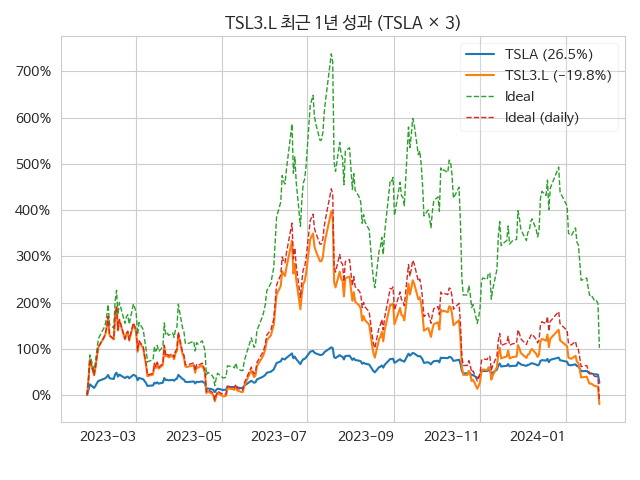
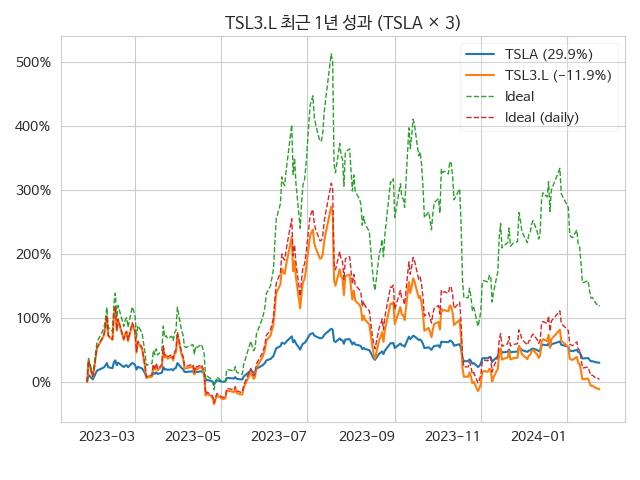
레버리지 비용 페이지 업데이터

diff --git a/_posts/lev/2024-01-26-tsl3.md b/_posts/lev/2024-01-26-tsl3.md
@@ -1,0 +1,38 @@
+---
+title: TSL3.L 레버리지 수익률과 비용 (TSLA×3)
+categories:
+- 레버리지
+---
+
+| **종목** | **1년** | **표준편차** | **샤프** | **MDD** | **AvDD** |
+| :------------ | ------: | -----------: | -------: | ------: | -------: |
+| TSL3.L | <span style="color: blue">-11.9<small>%</small></span> | 182.8<small>%</small> | -0.07 | -77.1<small>%</small> | -42.5<small>%</small> |
+
+<!-- more -->
+
+<br>
+
+![TSL3.L](/lev/images/tsl3.png)
+
+> **주요 가격 변동 지표**<small>[^fn_price_metric]</small>
+
+
+| **종목** | **1년** | **표준편차** | **샤프** | **MDD** | **AvDD** |
+| :------------ | ------: | -----------: | -------: | ------: | -------: |
+| TSL3.L | <span style="color: blue">-11.9<small>%</small></span> | 182.8% | -0.07 | -77.1<small>%</small> | -42.5<small>%</small> |
+| Ideal<small>[^fn_lev_ideal]</small> | <span style="color: red">119.1<small>%</small></span> | 184.8% | 0.64 | -69.5<small>%</small> | -33.9<small>%</small> |
+| Ideal <small>(daily)</small><small>[^fn_lev_ideal_daily]</small> | <span style="color: red">3.7<small>%</small></span> | 183.2% | 0.02 | -76.1<small>%</small> | -41.4<small>%</small> |
+| TSLA | <span style="color: red">29.9<small>%</small></span> | 61.0% | 0.49 | -32.7<small>%</small> | -13.7<small>%</small> |
+
+<br>
+
+> **추정 비용**<small>[^fn_lev_expense]</small><a id="expense"></a>
+
+TSL3.L가 TSLA의 3배 레버리지 상품이라 가정하고 분석한 결과입니다.
+
+| **종목** | **변동성 비용**<small>[^fn_lev_vd_expense]</small> | **금융 비용**<small>[^fn_lev_fn_expense]</small> | **전체 비용**</small>[^fn_lev_tt_expense]</small> |
+| :------------ | ------: | -----------: | -------: |
+| TSL3.L | 52.4<small>%</small> | 15.0<small>%</small> | 59.6<small>%</small> |
+
+---
+{% include commons/footnotes.md %}

diff --git a/_posts/lev/2024-01-25-labu.md b/_posts/lev/2024-01-25-labu.md
@@ -1,0 +1,38 @@
+---
+title: LABU 레버리지 수익률과 비용 (XBI×3)
+categories:
+- 레버리지
+---
+
+| **종목** | **1년** | **표준편차** | **샤프** | **MDD** | **AvDD** |
+| :------------ | ------: | -----------: | -------: | ------: | -------: |
+| LABU | <span style="color: blue">-30.5<small>%</small></span> | 99.9<small>%</small> | -0.31 | -73.0<small>%</small> | -41.1<small>%</small> |
+
+<!-- more -->
+
+<br>
+
+![LABU](/lev/images/labu.png)
+
+> **주요 가격 변동 지표**<small>[^fn_price_metric]</small>
+
+
+| **종목** | **1년** | **표준편차** | **샤프** | **MDD** | **AvDD** |
+| :------------ | ------: | -----------: | -------: | ------: | -------: |
+| LABU | <span style="color: blue">-30.5<small>%</small></span> | 99.9% | -0.31 | -73.0<small>%</small> | -41.1<small>%</small> |
+| Ideal<small>[^fn_lev_ideal]</small> | <span style="color: blue">-1.3<small>%</small></span> | 102.5% | -0.01 | -66.1<small>%</small> | -31.6<small>%</small> |
+| Ideal <small>(daily)</small><small>[^fn_lev_ideal_daily]</small> | <span style="color: blue">-22.1<small>%</small></span> | 102.1% | -0.22 | -70.8<small>%</small> | -38.2<small>%</small> |
+| XBI | <span style="color: blue">-0.4<small>%</small></span> | 34.0% | -0.01 | -30.3<small>%</small> | -12.5<small>%</small> |
+
+<br>
+
+> **추정 비용**<small>[^fn_lev_expense]</small><a id="expense"></a>
+
+LABU가 XBI의 3배 레버리지 상품이라 가정하고 분석한 결과입니다.
+
+| **종목** | **변동성 비용**<small>[^fn_lev_vd_expense]</small> | **금융 비용**<small>[^fn_lev_fn_expense]</small> | **전체 비용**</small>[^fn_lev_tt_expense]</small> |
+| :------------ | ------: | -----------: | -------: |
+| LABU | 21.1<small>%</small> | 10.8<small>%</small> | 29.6<small>%</small> |
+
+---
+{% include commons/footnotes.md %}

diff --git a/_posts/lev/2024-01-25-sdow.md b/_posts/lev/2024-01-25-sdow.md
@@ -1,0 +1,38 @@
+---
+title: SDOW 레버리지 수익률과 비용 (DOG×3)
+categories:
+- 레버리지
+---
+
+| **종목** | **1년** | **표준편차** | **샤프** | **MDD** | **AvDD** |
+| :------------ | ------: | -----------: | -------: | ------: | -------: |
+| SDOW | <span style="color: blue">-26.3<small>%</small></span> | 39.4<small>%</small> | -0.67 | -37.9<small>%</small> | -16.8<small>%</small> |
+
+<!-- more -->
+
+<br>
+
+![SDOW](/lev/images/sdow.png)
+
+> **주요 가격 변동 지표**<small>[^fn_price_metric]</small>
+
+
+| **종목** | **1년** | **표준편차** | **샤프** | **MDD** | **AvDD** |
+| :------------ | ------: | -----------: | -------: | ------: | -------: |
+| SDOW | <span style="color: blue">-26.3<small>%</small></span> | 39.4% | -0.67 | -37.9<small>%</small> | -16.8<small>%</small> |
+| Ideal<small>[^fn_lev_ideal]</small> | <span style="color: blue">-16.9<small>%</small></span> | 39.4% | -0.43 | -35.1<small>%</small> | -14.3<small>%</small> |
+| Ideal <small>(daily)</small><small>[^fn_lev_ideal_daily]</small> | <span style="color: blue">-19.8<small>%</small></span> | 39.5% | -0.50 | -35.6<small>%</small> | -15.0<small>%</small> |
+| DOG | <span style="color: blue">-6.0<small>%</small></span> | 13.2% | -0.46 | -13.4<small>%</small> | -5.1<small>%</small> |
+
+<br>
+
+> **추정 비용**<small>[^fn_lev_expense]</small><a id="expense"></a>
+
+SDOW가 DOG의 3배 레버리지 상품이라 가정하고 분석한 결과입니다.
+
+| **종목** | **변동성 비용**<small>[^fn_lev_vd_expense]</small> | **금융 비용**<small>[^fn_lev_fn_expense]</small> | **전체 비용**</small>[^fn_lev_tt_expense]</small> |
+| :------------ | ------: | -----------: | -------: |
+| SDOW | 3.5<small>%</small> | 8.1<small>%</small> | 11.3<small>%</small> |
+
+---
+{% include commons/footnotes.md %}

diff --git a/_posts/lev/2024-01-25-dxd.md b/_posts/lev/2024-01-25-dxd.md
@@ -1,0 +1,38 @@
+---
+title: DXD 레버리지 수익률과 비용 (DOG×2)
+categories:
+- 레버리지
+---
+
+| **종목** | **1년** | **표준편차** | **샤프** | **MDD** | **AvDD** |
+| :------------ | ------: | -----------: | -------: | ------: | -------: |
+| DXD | <span style="color: blue">-16.9<small>%</small></span> | 26.3<small>%</small> | -0.64 | -26.2<small>%</small> | -11.1<small>%</small> |
+
+<!-- more -->
+
+<br>
+
+![DXD](/lev/images/dxd.png)
+
+> **주요 가격 변동 지표**<small>[^fn_price_metric]</small>
+
+
+| **종목** | **1년** | **표준편차** | **샤프** | **MDD** | **AvDD** |
+| :------------ | ------: | -----------: | -------: | ------: | -------: |
+| DXD | <span style="color: blue">-16.9<small>%</small></span> | 26.3% | -0.64 | -26.2<small>%</small> | -11.1<small>%</small> |
+| Ideal<small>[^fn_lev_ideal]</small> | <span style="color: blue">-11.6<small>%</small></span> | 26.3% | -0.44 | -25.1<small>%</small> | -9.9<small>%</small> |
+| Ideal <small>(daily)</small><small>[^fn_lev_ideal_daily]</small> | <span style="color: blue">-12.7<small>%</small></span> | 26.3% | -0.48 | -25.2<small>%</small> | -10.1<small>%</small> |
+| DOG | <span style="color: blue">-6.0<small>%</small></span> | 13.2% | -0.46 | -13.4<small>%</small> | -5.1<small>%</small> |
+
+<br>
+
+> **추정 비용**<small>[^fn_lev_expense]</small><a id="expense"></a>
+
+DXD가 DOG의 2배 레버리지 상품이라 가정하고 분석한 결과입니다.
+
+| **종목** | **변동성 비용**<small>[^fn_lev_vd_expense]</small> | **금융 비용**<small>[^fn_lev_fn_expense]</small> | **전체 비용**</small>[^fn_lev_tt_expense]</small> |
+| :------------ | ------: | -----------: | -------: |
+| DXD | 1.2<small>%</small> | 4.9<small>%</small> | 6.0<small>%</small> |
+
+---
+{% include commons/footnotes.md %}

diff --git a/_posts/lev/2024-01-25-udow.md b/_posts/lev/2024-01-25-udow.md
@@ -1,0 +1,38 @@
+---
+title: UDOW 레버리지 수익률과 비용 (DIA×3)
+categories:
+- 레버리지
+---
+
+| **종목** | **1년** | **표준편차** | **샤프** | **MDD** | **AvDD** |
+| :------------ | ------: | -----------: | -------: | ------: | -------: |
+| UDOW | <span style="color: red">29.4<small>%</small></span> | 39.3<small>%</small> | 0.75 | -26.5<small>%</small> | -8.0<small>%</small> |
+
+<!-- more -->
+
+<br>
+
+![UDOW](/lev/images/udow.png)
+
+> **주요 가격 변동 지표**<small>[^fn_price_metric]</small>
+
+
+| **종목** | **1년** | **표준편차** | **샤프** | **MDD** | **AvDD** |
+| :------------ | ------: | -----------: | -------: | ------: | -------: |
+| UDOW | <span style="color: red">29.4<small>%</small></span> | 39.3% | 0.75 | -26.5<small>%</small> | -8.0<small>%</small> |
+| Ideal<small>[^fn_lev_ideal]</small> | <span style="color: red">52.2<small>%</small></span> | 39.6% | 1.32 | -23.5<small>%</small> | -6.1<small>%</small> |
+| Ideal <small>(daily)</small><small>[^fn_lev_ideal_daily]</small> | <span style="color: red">46.9<small>%</small></span> | 39.5% | 1.19 | -24.1<small>%</small> | -6.5<small>%</small> |
+| DIA | <span style="color: red">15.0<small>%</small></span> | 13.2% | 1.14 | -8.6<small>%</small> | -2.1<small>%</small> |
+
+<br>
+
+> **추정 비용**<small>[^fn_lev_expense]</small><a id="expense"></a>
+
+UDOW가 DIA의 3배 레버리지 상품이라 가정하고 분석한 결과입니다.
+
+| **종목** | **변동성 비용**<small>[^fn_lev_vd_expense]</small> | **금융 비용**<small>[^fn_lev_fn_expense]</small> | **전체 비용**</small>[^fn_lev_tt_expense]</small> |
+| :------------ | ------: | -----------: | -------: |
+| UDOW | 3.5<small>%</small> | 11.9<small>%</small> | 15.0<small>%</small> |
+
+---
+{% include commons/footnotes.md %}

diff --git a/_posts/lev/2024-01-25-ddm.md b/_posts/lev/2024-01-25-ddm.md
@@ -1,0 +1,38 @@
+---
+title: DDM 레버리지 수익률과 비용 (DIA×2)
+categories:
+- 레버리지
+---
+
+| **종목** | **1년** | **표준편차** | **샤프** | **MDD** | **AvDD** |
+| :------------ | ------: | -----------: | -------: | ------: | -------: |
+| DDM | <span style="color: red">22.2<small>%</small></span> | 26.3<small>%</small> | 0.84 | -18.0<small>%</small> | -5.0<small>%</small> |
+
+<!-- more -->
+
+<br>
+
+![DDM](/lev/images/ddm.png)
+
+> **주요 가격 변동 지표**<small>[^fn_price_metric]</small>
+
+
+| **종목** | **1년** | **표준편차** | **샤프** | **MDD** | **AvDD** |
+| :------------ | ------: | -----------: | -------: | ------: | -------: |
+| DDM | <span style="color: red">22.2<small>%</small></span> | 26.3% | 0.84 | -18.0<small>%</small> | -5.0<small>%</small> |
+| Ideal<small>[^fn_lev_ideal]</small> | <span style="color: red">32.3<small>%</small></span> | 26.4% | 1.23 | -16.4<small>%</small> | -4.2<small>%</small> |
+| Ideal <small>(daily)</small><small>[^fn_lev_ideal_daily]</small> | <span style="color: red">30.7<small>%</small></span> | 26.3% | 1.17 | -16.6<small>%</small> | -4.3<small>%</small> |
+| DIA | <span style="color: red">15.0<small>%</small></span> | 13.2% | 1.14 | -8.6<small>%</small> | -2.1<small>%</small> |
+
+<br>
+
+> **추정 비용**<small>[^fn_lev_expense]</small><a id="expense"></a>
+
+DDM가 DIA의 2배 레버리지 상품이라 가정하고 분석한 결과입니다.
+
+| **종목** | **변동성 비용**<small>[^fn_lev_vd_expense]</small> | **금융 비용**<small>[^fn_lev_fn_expense]</small> | **전체 비용**</small>[^fn_lev_tt_expense]</small> |
+| :------------ | ------: | -----------: | -------: |
+| DDM | 1.2<small>%</small> | 6.5<small>%</small> | 7.6<small>%</small> |
+
+---
+{% include commons/footnotes.md %}

diff --git a/_posts/lev/2024-01-25-sqqq.md b/_posts/lev/2024-01-25-sqqq.md
@@ -20,15 +20,17 @@ categories:
 | **종목** | **1년** | **표준편차** | **샤프** | **MDD** | **AvDD** |
 | :------------ | ------: | -----------: | -------: | ------: | -------: |
 | SQQQ | <span style="color: blue">-70.1<small>%</small></span> | 62.8% | -1.12 | -70.1<small>%</small> | -44.6<small>%</small> |
-| Ideal | <span style="color: blue">-64.7<small>%</small></span> | 63.4% | -1.02 | -64.7<small>%</small> | -40.1<small>%</small> |
-| Ideal (daily) | <span style="color: blue">-67.9<small>%</small></span> | 63.6% | -1.07 | -67.9<small>%</small> | -43.0<small>%</small> |
+| Ideal<small>[^fn_lev_ideal]</small> | <span style="color: blue">-64.7<small>%</small></span> | 63.4% | -1.02 | -64.7<small>%</small> | -40.1<small>%</small> |
+| Ideal <small>(daily)</small><small>[^fn_lev_ideal_daily]</small> | <span style="color: blue">-67.9<small>%</small></span> | 63.6% | -1.07 | -67.9<small>%</small> | -43.0<small>%</small> |
 | PSQ | <span style="color: blue">-29.3<small>%</small></span> | 21.2% | -1.38 | -29.3<small>%</small> | -16.4<small>%</small> |
 
 <br>
 
-> **추정 비용**[^fn_lev_expense]<a id="expense"></a>
+> **추정 비용**<small>[^fn_lev_expense]</small><a id="expense"></a>
 
-| **종목** | **변동성 비용**[^fn_lev_vd_expense] | **금융 비용**[^fn_lev_fn_expense] | **전체 비용**[^fn_lev_tt_expense] |
+SQQQ가 PSQ의 3배 레버리지 상품이라 가정하고 분석한 결과입니다.
+
+| **종목** | **변동성 비용**<small>[^fn_lev_vd_expense]</small> | **금융 비용**<small>[^fn_lev_fn_expense]</small> | **전체 비용**</small>[^fn_lev_tt_expense]</small> |
 | :------------ | ------: | -----------: | -------: |
 | SQQQ | 9.1<small>%</small> | 6.9<small>%</small> | 15.3<small>%</small> |
 

diff --git a/_posts/lev/2024-01-25-spxu.md b/_posts/lev/2024-01-25-spxu.md
@@ -20,15 +20,17 @@ categories:
 | **종목** | **1년** | **표준편차** | **샤프** | **MDD** | **AvDD** |
 | :------------ | ------: | -----------: | -------: | ------: | -------: |
 | SPXU | <span style="color: blue">-42.1<small>%</small></span> | 45.1% | -0.93 | -48.5<small>%</small> | -26.2<small>%</small> |
-| Ideal | <span style="color: blue">-33.9<small>%</small></span> | 45.4% | -0.75 | -42.5<small>%</small> | -22.9<small>%</small> |
-| Ideal (daily) | <span style="color: blue">-37.0<small>%</small></span> | 45.4% | -0.81 | -44.6<small>%</small> | -24.2<small>%</small> |
+| Ideal<small>[^fn_lev_ideal]</small> | <span style="color: blue">-33.9<small>%</small></span> | 45.4% | -0.75 | -42.5<small>%</small> | -22.9<small>%</small> |
+| Ideal <small>(daily)</small><small>[^fn_lev_ideal_daily]</small> | <span style="color: blue">-37.0<small>%</small></span> | 45.4% | -0.81 | -44.6<small>%</small> | -24.2<small>%</small> |
 | SH | <span style="color: blue">-12.9<small>%</small></span> | 15.1% | -0.85 | -16.8<small>%</small> | -8.5<small>%</small> |
 
 <br>
 
-> **추정 비용**[^fn_lev_expense]<a id="expense"></a>
+> **추정 비용**<small>[^fn_lev_expense]</small><a id="expense"></a>
 
-| **종목** | **변동성 비용**[^fn_lev_vd_expense] | **금융 비용**[^fn_lev_fn_expense] | **전체 비용**[^fn_lev_tt_expense] |
+SPXU가 SH의 3배 레버리지 상품이라 가정하고 분석한 결과입니다.
+
+| **종목** | **변동성 비용**<small>[^fn_lev_vd_expense]</small> | **금융 비용**<small>[^fn_lev_fn_expense]</small> | **전체 비용**</small>[^fn_lev_tt_expense]</small> |
 | :------------ | ------: | -----------: | -------: |
 | SPXU | 4.6<small>%</small> | 8.2<small>%</small> | 12.4<small>%</small> |
 

diff --git a/_posts/lev/2024-01-25-qid.md b/_posts/lev/2024-01-25-qid.md
@@ -20,15 +20,17 @@ categories:
 | **종목** | **1년** | **표준편차** | **샤프** | **MDD** | **AvDD** |
 | :------------ | ------: | -----------: | -------: | ------: | -------: |
 | QID | <span style="color: blue">-53.6<small>%</small></span> | 42.1% | -1.27 | -53.6<small>%</small> | -32.0<small>%</small> |
-| Ideal | <span style="color: blue">-50.1<small>%</small></span> | 42.3% | -1.18 | -50.0<small>%</small> | -29.5<small>%</small> |
-| Ideal (daily) | <span style="color: blue">-51.6<small>%</small></span> | 42.4% | -1.22 | -51.6<small>%</small> | -30.7<small>%</small> |
+| Ideal<small>[^fn_lev_ideal]</small> | <span style="color: blue">-50.1<small>%</small></span> | 42.3% | -1.18 | -50.0<small>%</small> | -29.5<small>%</small> |
+| Ideal <small>(daily)</small><small>[^fn_lev_ideal_daily]</small> | <span style="color: blue">-51.6<small>%</small></span> | 42.4% | -1.22 | -51.6<small>%</small> | -30.7<small>%</small> |
 | PSQ | <span style="color: blue">-29.3<small>%</small></span> | 21.2% | -1.38 | -29.3<small>%</small> | -16.4<small>%</small> |
 
 <br>
 
-> **추정 비용**[^fn_lev_expense]<a id="expense"></a>
+> **추정 비용**<small>[^fn_lev_expense]</small><a id="expense"></a>
 
-| **종목** | **변동성 비용**[^fn_lev_vd_expense] | **금융 비용**[^fn_lev_fn_expense] | **전체 비용**[^fn_lev_tt_expense] |
+QID가 PSQ의 2배 레버리지 상품이라 가정하고 분석한 결과입니다.
+
+| **종목** | **변동성 비용**<small>[^fn_lev_vd_expense]</small> | **금융 비용**<small>[^fn_lev_fn_expense]</small> | **전체 비용**</small>[^fn_lev_tt_expense]</small> |
 | :------------ | ------: | -----------: | -------: |
 | QID | 3.1<small>%</small> | 4.2<small>%</small> | 7.2<small>%</small> |
 

diff --git a/_posts/lev/2024-01-25-soxl.md b/_posts/lev/2024-01-25-soxl.md
@@ -20,15 +20,17 @@ categories:
 | **종목** | **1년** | **표준편차** | **샤프** | **MDD** | **AvDD** |
 | :------------ | ------: | -----------: | -------: | ------: | -------: |
 | SOXL | <span style="color: red">157.4<small>%</small></span> | 99.7% | 1.58 | -49.0<small>%</small> | -16.3<small>%</small> |
-| Ideal | <span style="color: red">264.9<small>%</small></span> | 102.6% | 2.58 | -44.6<small>%</small> | -13.9<small>%</small> |
-| Ideal (daily) | <span style="color: red">189.8<small>%</small></span> | 101.3% | 1.87 | -47.3<small>%</small> | -15.4<small>%</small> |
+| Ideal<small>[^fn_lev_ideal]</small> | <span style="color: red">264.9<small>%</small></span> | 102.6% | 2.58 | -44.6<small>%</small> | -13.9<small>%</small> |
+| Ideal <small>(daily)</small><small>[^fn_lev_ideal_daily]</small> | <span style="color: red">189.8<small>%</small></span> | 101.3% | 1.87 | -47.3<small>%</small> | -15.4<small>%</small> |
 | SOXX | <span style="color: red">54.0<small>%</small></span> | 33.8% | 1.60 | -17.9<small>%</small> | -5.0<small>%</small> |
 
 <br>
 
-> **추정 비용**[^fn_lev_expense]<a id="expense"></a>
+> **추정 비용**<small>[^fn_lev_expense]</small><a id="expense"></a>
 
-| **종목** | **변동성 비용**[^fn_lev_vd_expense] | **금융 비용**[^fn_lev_fn_expense] | **전체 비용**[^fn_lev_tt_expense] |
+SOXL가 SOXX의 3배 레버리지 상품이라 가정하고 분석한 결과입니다.
+
+| **종목** | **변동성 비용**<small>[^fn_lev_vd_expense]</small> | **금융 비용**<small>[^fn_lev_fn_expense]</small> | **전체 비용**</small>[^fn_lev_tt_expense]</small> |
 | :------------ | ------: | -----------: | -------: |
 | SOXL | 20.6<small>%</small> | 11.2<small>%</small> | 29.4<small>%</small> |
 

diff --git a/_posts/lev/2024-01-25-sds.md b/_posts/lev/2024-01-25-sds.md
@@ -20,15 +20,17 @@ categories:
 | **종목** | **1년** | **표준편차** | **샤프** | **MDD** | **AvDD** |
 | :------------ | ------: | -----------: | -------: | ------: | -------: |
 | SDS | <span style="color: blue">-28.4<small>%</small></span> | 30.3% | -0.94 | -34.1<small>%</small> | -17.7<small>%</small> |
-| Ideal | <span style="color: blue">-24.1<small>%</small></span> | 30.3% | -0.80 | -30.8<small>%</small> | -16.1<small>%</small> |
-| Ideal (daily) | <span style="color: blue">-25.3<small>%</small></span> | 30.3% | -0.84 | -31.7<small>%</small> | -16.6<small>%</small> |
+| Ideal<small>[^fn_lev_ideal]</small> | <span style="color: blue">-24.1<small>%</small></span> | 30.3% | -0.80 | -30.8<small>%</small> | -16.1<small>%</small> |
+| Ideal <small>(daily)</small><small>[^fn_lev_ideal_daily]</small> | <span style="color: blue">-25.3<small>%</small></span> | 30.3% | -0.84 | -31.7<small>%</small> | -16.6<small>%</small> |
 | SH | <span style="color: blue">-12.9<small>%</small></span> | 15.1% | -0.85 | -16.8<small>%</small> | -8.5<small>%</small> |
 
 <br>
 
-> **추정 비용**[^fn_lev_expense]<a id="expense"></a>
+> **추정 비용**<small>[^fn_lev_expense]</small><a id="expense"></a>
 
-| **종목** | **변동성 비용**[^fn_lev_vd_expense] | **금융 비용**[^fn_lev_fn_expense] | **전체 비용**[^fn_lev_tt_expense] |
+SDS가 SH의 2배 레버리지 상품이라 가정하고 분석한 결과입니다.
+
+| **종목** | **변동성 비용**<small>[^fn_lev_vd_expense]</small> | **금융 비용**<small>[^fn_lev_fn_expense]</small> | **전체 비용**</small>[^fn_lev_tt_expense]</small> |
 | :------------ | ------: | -----------: | -------: |
 | SDS | 1.6<small>%</small> | 4.2<small>%</small> | 5.7<small>%</small> |
 

diff --git a/_posts/lev/2024-01-25-tsll.md b/_posts/lev/2024-01-25-tsll.md
@@ -20,15 +20,17 @@ categories:
 | **종목** | **1년** | **표준편차** | **샤프** | **MDD** | **AvDD** |
 | :------------ | ------: | -----------: | -------: | ------: | -------: |
 | TSLL | <span style="color: red">19.8<small>%</small></span> | 94.7% | 0.21 | -54.9<small>%</small> | -21.9<small>%</small> |
-| Ideal | <span style="color: red">42.2<small>%</small></span> | 94.7% | 0.45 | -50.9<small>%</small> | -19.7<small>%</small> |
-| Ideal (daily) | <span style="color: red">28.3<small>%</small></span> | 94.7% | 0.30 | -53.2<small>%</small> | -21.0<small>%</small> |
+| Ideal<small>[^fn_lev_ideal]</small> | <span style="color: red">42.2<small>%</small></span> | 94.7% | 0.45 | -50.9<small>%</small> | -19.7<small>%</small> |
+| Ideal <small>(daily)</small><small>[^fn_lev_ideal_daily]</small> | <span style="color: red">28.3<small>%</small></span> | 94.7% | 0.30 | -53.2<small>%</small> | -21.0<small>%</small> |
 | TSLA | <span style="color: red">26.5<small>%</small></span> | 63.1% | 0.42 | -37.7<small>%</small> | -13.8<small>%</small> |
 
 <br>
 
-> **추정 비용**[^fn_lev_expense]<a id="expense"></a>
+> **추정 비용**<small>[^fn_lev_expense]</small><a id="expense"></a>
 
-| **종목** | **변동성 비용**[^fn_lev_vd_expense] | **금융 비용**[^fn_lev_fn_expense] | **전체 비용**[^fn_lev_tt_expense] |
+TSLL가 TSLA의 1.5배 레버리지 상품이라 가정하고 분석한 결과입니다.
+
+| **종목** | **변동성 비용**<small>[^fn_lev_vd_expense]</small> | **금융 비용**<small>[^fn_lev_fn_expense]</small> | **전체 비용**</small>[^fn_lev_tt_expense]</small> |
 | :------------ | ------: | -----------: | -------: |
 | TSLL | 9.8<small>%</small> | 6.6<small>%</small> | 15.7<small>%</small> |
 
